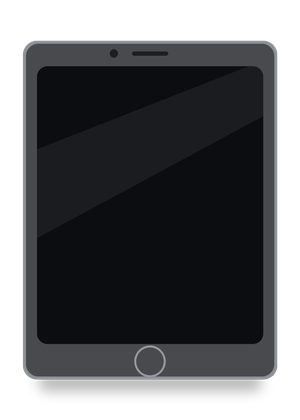
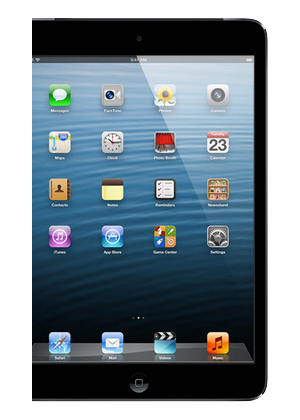
Use manufacturer product photography for fifteen more devices
At the owner's direction, after the free-licensed sources were exhausted.

Not from image search. A search result cannot be verified as the model it
claims to be — that is what produced a Pixel 7a for a Pixel query and a
microscope slide of a light sensor for a Pixel 4a — and a wrong photograph sends
a customer down the wrong device's quote. Two sources give the same photographs
with the model guaranteed instead of guessed:

* Apple publishes model-identification photographs on support.apple.com, the
  images that exist precisely so one iPad generation can be told from the next.
  Four iPads come from there, cropped to the single right-hand device so the
  framing matches the rest of the catalogue.
* GSMArena mirrors the manufacturer press renders at a path containing the
  device slug, so samsung-galaxy-s10e.jpg is the S10e by construction. Eleven
  devices come from there. Their search sits behind a bot challenge, which was
  left alone; only the static image paths were requested, and only after the
  slug was known.

Every one of the fifteen was looked at before installing. All fifteen are the
right device.

Ten remain drawn — the Galaxy S21 and S4, the Pixel 2 XL, 3 XL, 4 and 4 XL, the
2014 Galaxy Tabs and the original Galaxy Tab. No slug form resolved to a
photograph for those.

CREDITS.md now separates three provenances: freely-licensed photographs with
their attribution, manufacturer photography whose copyright stays with Apple,
[…]

diff --git a/trade-in-platform/public/devices/CREDITS.md b/trade-in-platform/public/devices/CREDITS.md
@@ -42,10 +42,30 @@ curated, so they avoid the family lineups and wrong variants that plain search
 returns.
 
 
-## The 25 drawn illustrations
+## Manufacturer product images
 
-The devices no free image library documents — legacy Pixels, the 2014 Galaxy
-Tabs, the early iPads — are drawn rather than photographed, by
+Fifteen devices use the manufacturer's own product photography, added at the
+shop owner's direction after the free-licensed sources were exhausted:
+
+* Four iPads use Apple's own model-identification photographs from
+  support.apple.com — the images Apple publishes precisely so a specific
+  generation can be told apart from its neighbours.
+* Eleven phones and one tablet use the manufacturer press renders mirrored by
+  GSMArena, matched by the device slug in the image URL so the model is
+  verifiable rather than guessed.
+
+These are not freely licensed. Copyright stays with Apple, Samsung and Google,
+and they are used here to identify the exact product being bought — the same
+use a retailer makes of them. That is the owner's call and it is recorded here
+so the position is known rather than assumed. Replacing any of them with a
+photograph of the shop's own stock removes the question entirely; see
+`trade-in-backend/scripts/import_shop_photos.py`.
+
+## The remaining drawn illustrations
+
+The ten devices with no photograph from any source — the Galaxy S21 and S4, the
+Pixel 2 XL, 3 XL, 4 and 4 XL, the 2014 Galaxy Tabs and the original Galaxy Tab —
+are drawn rather than photographed, by
 `trade-in-backend/scripts/render_device_illustration.py`. They need no credit:
 they are this project's own artwork.
 
